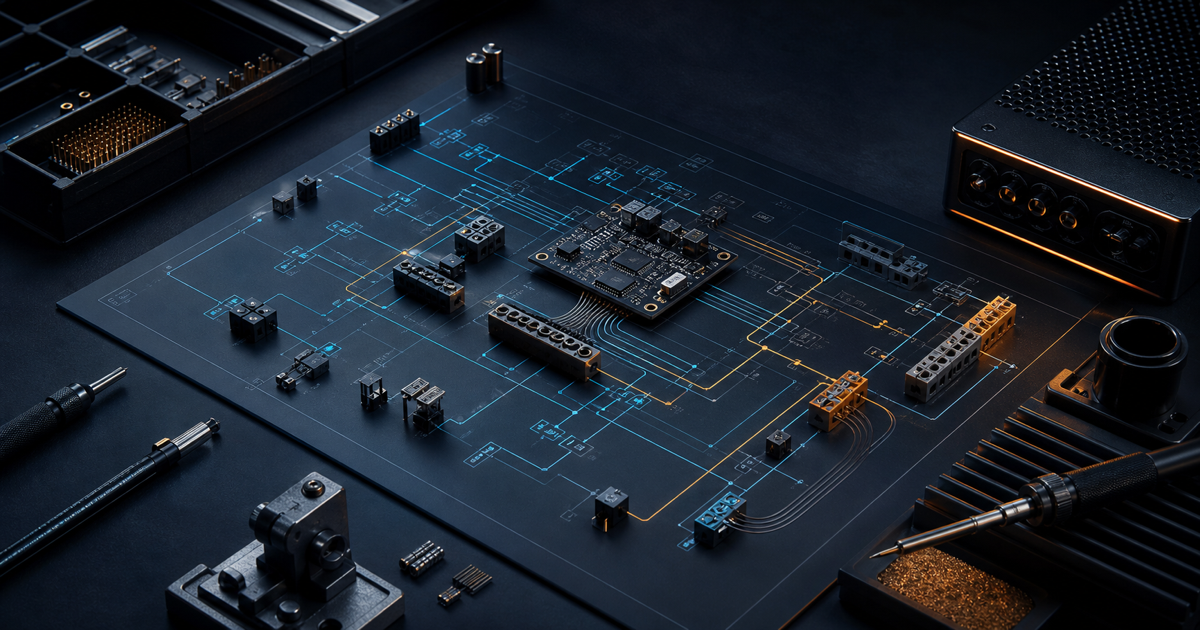
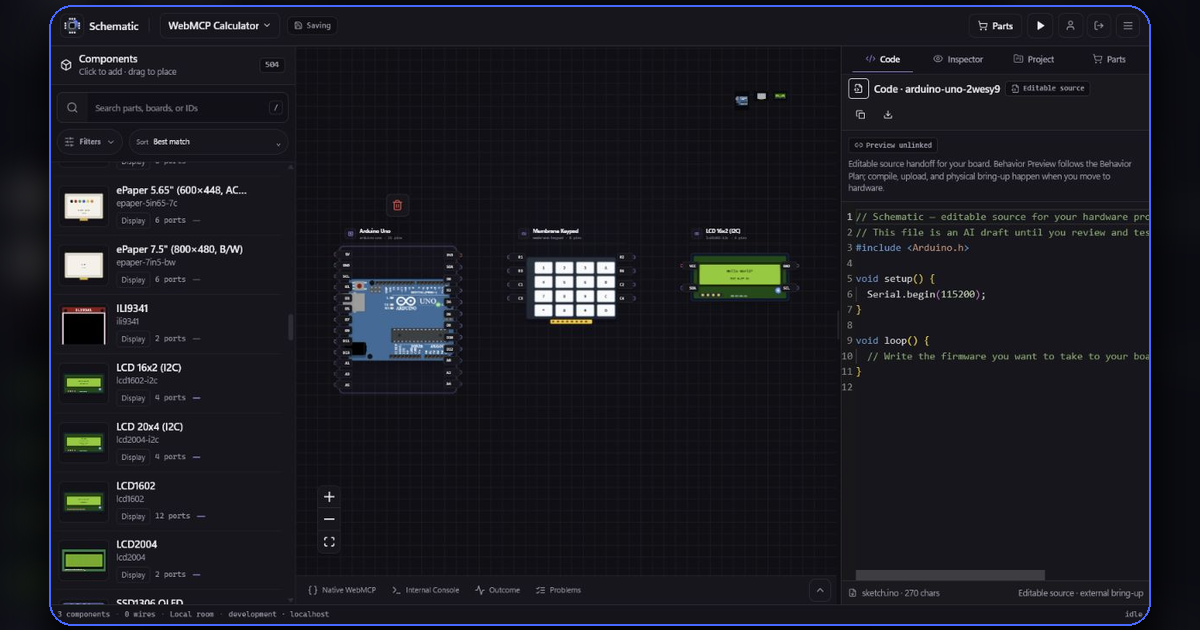
docs: showcase real studio captures

diff --git a/README.md b/README.md
@@ -14,10 +14,10 @@ Schematic is an agent-native hardware workspace for assembling components, wirin
 </div>
 
 <p align="center">
-  <img src="docs/images/schematic-studio.png" alt="The real Schematic studio with an Arduino Uno, membrane keypad, I2C LCD, component catalog, canvas, and firmware editor" />
+  <a href="https://schematic-hardware-workspace.decipherer71.chatgpt.site/studio">
+    <img src="docs/images/schematic-walkthrough.gif" alt="Real Schematic walkthrough: building a hardware calculator with an Arduino Uno, membrane keypad, and I2C LCD" />
+  </a>
 </p>
-
-<p align="center"><sub>Real application capture: Arduino Uno, membrane keypad, I2C LCD, component catalog, hardware canvas, and editable firmware.</sub></p>
 
 ## What Schematic does
 
